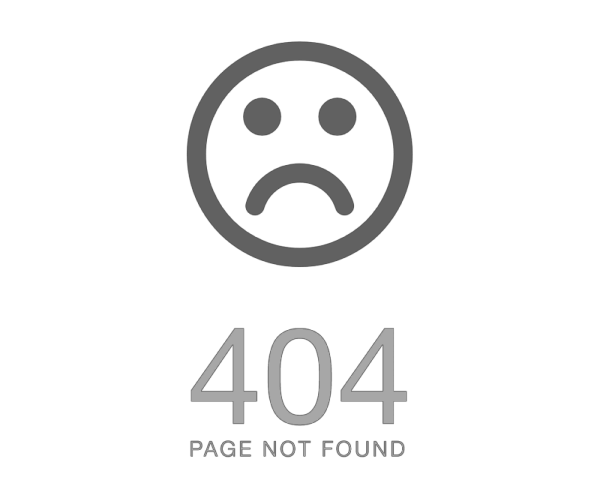
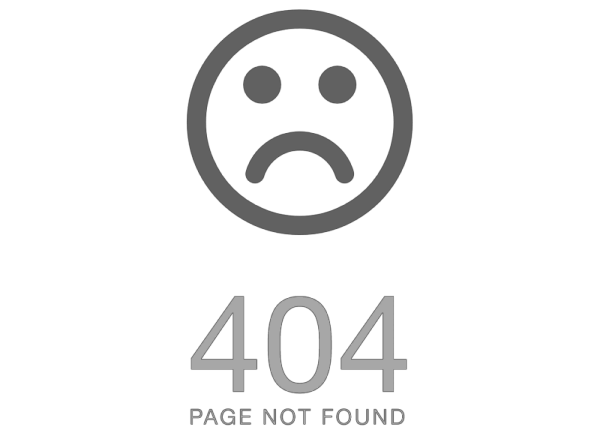
f

diff --git a/404-html/index.html b/404-html/index.html
@@ -31,6 +31,9 @@
 		.page-404 {
 		    padding: 40px 0;
 		}
+		.page-404 .img-404 {
+		    margin-bottom: 15px
+		}
 		.page-404 .desc-404 {
 		    margin: 0 auto;
 		    max-width: 700px;
